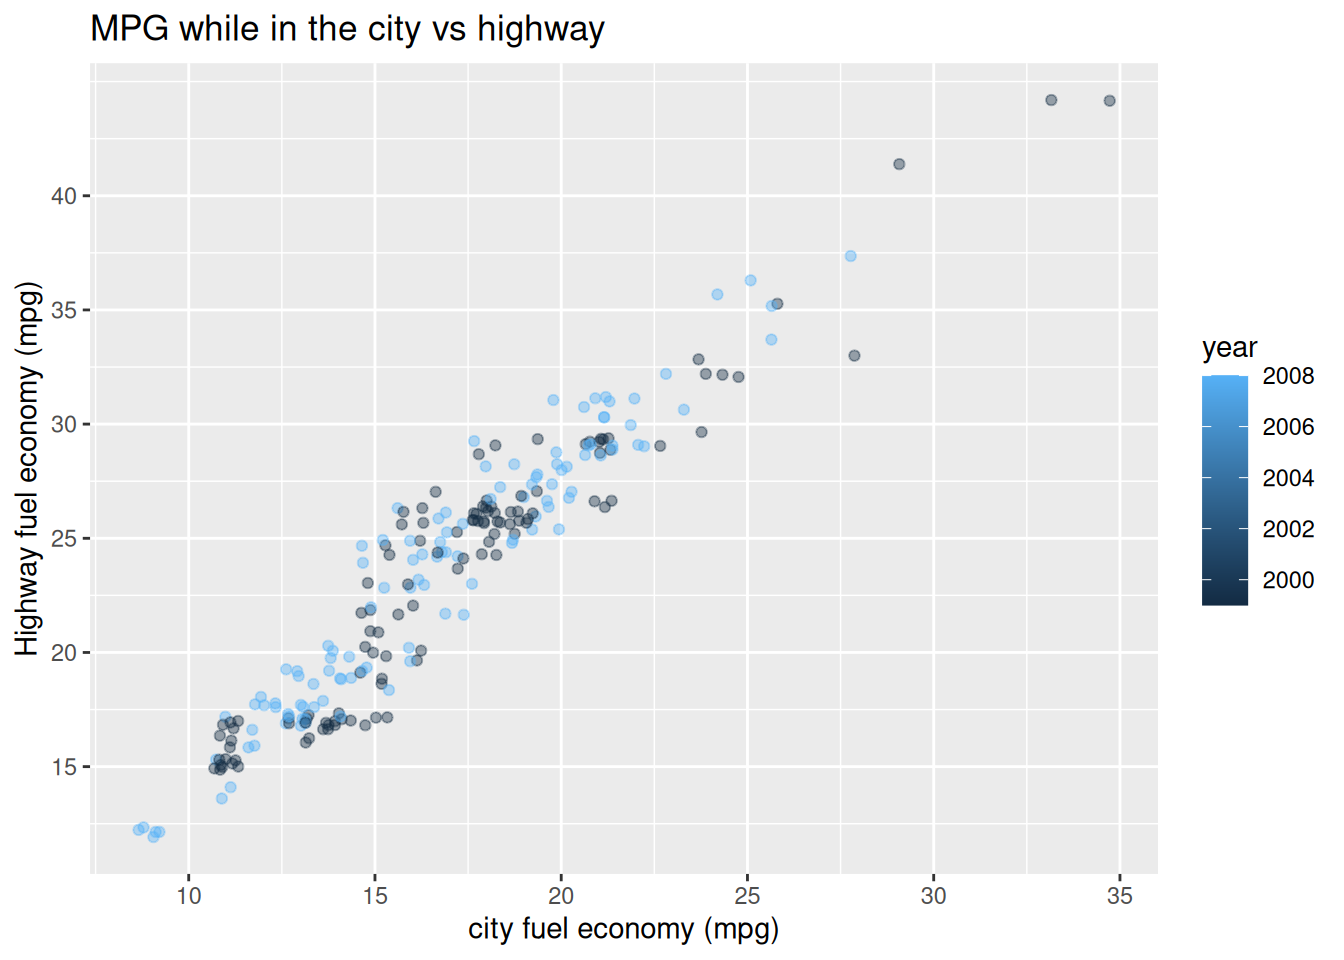
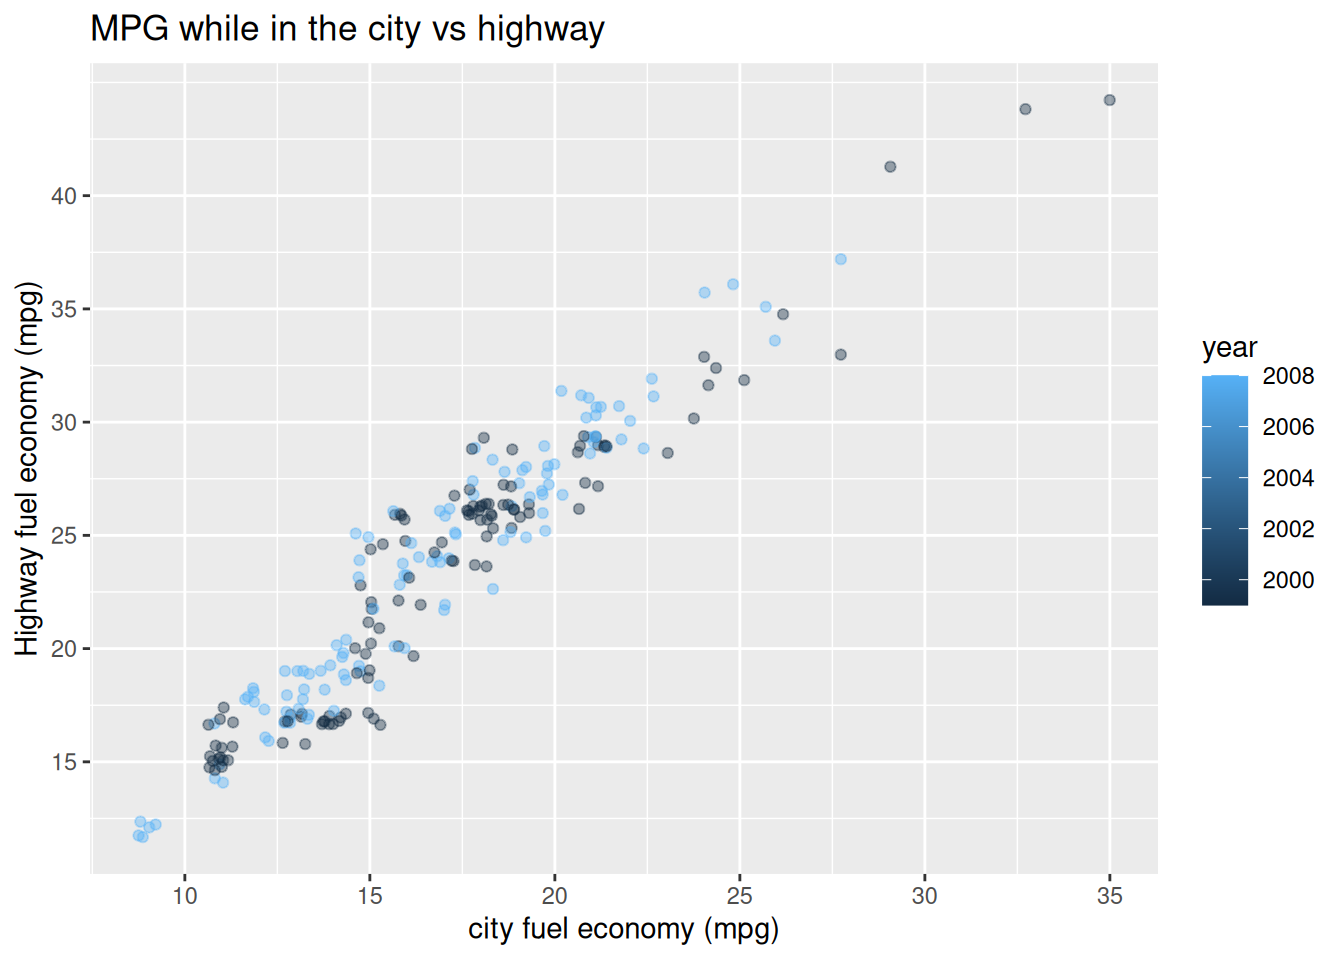
test

diff --git a/docs/posts/my_first_post/index.html b/docs/posts/my_first_post/index.html
@@ -157,23 +157,13 @@ ul.task-list li input[type="checkbox"] {
 
 
 
-<p>This is an example first post. Whatever you write here will appear inside your post.</p>
-<p>It is possible to write lists:</p>
-<ol type="1">
-<li>One</li>
-<li>Two</li>
-<li>Three</li>
-</ol>
-<p>And make headers</p>
-<section id="this-is-a-second-level-heading" class="level2">
-<h2 class="anchored" data-anchor-id="this-is-a-second-level-heading">This is a second level heading</h2>
-<p>You can include images, and many other kinds of content.</p>
-<p>If you are using the visual editor in Rstudio you can drag images onto the editor to insert them into the document. Otherwise, you need to place the image inside of the folder for this post, and then you can insert it to your post directly, like this:</p>
-<p><img src="thumbnail.jpg" class="img-fluid"></p>
-<p>The first image in a blog post will also be used on the listings page. ……</p>
+<pre><code></code></pre>
+<p>A rapidly growing problem has been Earths environmental change. More specifically, the tremendous change in the Arctic for the past decades. To understand the rate and severity at which the Arctic is losing its sea ice, a 16 year long project was conducted, recording data every 30 minutes from 2006-2022.</p>
+<p>What data does this study record exactly, though?</p>
+<p>The melting of the ice is becoming exponentially quicker. Within the study, the amount of sunlight which was captured a certain distance beneath the surface of water was recorded. It is likely for one to hypothesize throughout the 16 years, the amount of sunlight which was recorded obviously increased due to the reduction of ice in each passing year.</p>
+<p>Along with the amount of sunlight being recorded, the temperature of the water was as well being recorded. Like the sunlight, it seems reasonable to assume that the temperature was to increase. Even if the difference seems minimal, the data set is only being taken from a 16 year sample, which is small relative to how long global warming has been affecting Earth.</p>
 
 
-</section>
 
 </main> <!-- /main -->
 <script id="quarto-html-after-body" type="application/javascript">
